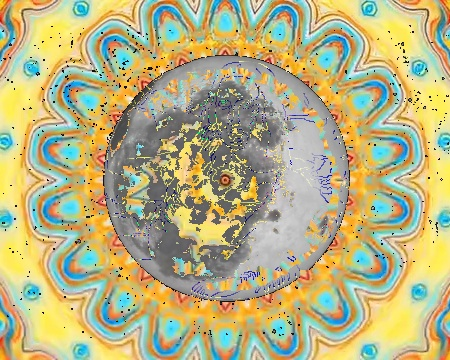
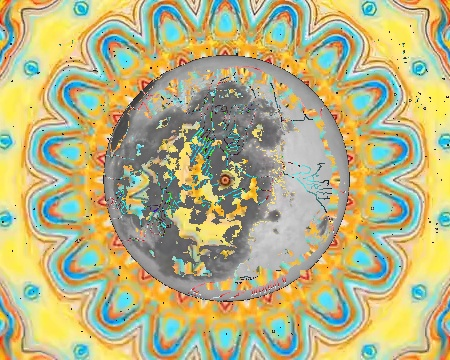
bug fixed

diff --git a/multiply images refactored.py b/multiply images refactored.py
@@ -29,26 +29,30 @@ def func_transformingImage(image, x, y, dest_y, dest_x):
 
     return TranslatedImage
 
+
 def func_isBlack(pixel, tellorance):
-    #@Shery: it should be <= tellorance because in grayscale 0 means black, 255 means white
+    # @Shery: it should be <= tellorance because in grayscale 0 means black, 255 means white
     if ((pixel[0] + pixel[1] + pixel[2])/3) >= tellorance:
         return True
 
     else:
         return False
 
+
 def func_preprocessingImage(image):
     height, width, layer = image.shape
 
     for i in range(height):
         for j in range(width):
-            #@shery: use if func_isBlack(image[x,y], 9): instead of following if condition
+            # @shery: use if func_isBlack(image[x,y], 9): instead of following if condition
+            image = func_isBlack(image[i, j], 9)  # @ehsan: is it ok?
+            '''
             if (((image[i, j][0] + image[i, j][1] + image[i, j][2])/3) < 10):
                 image[i, j][0] = 0
                 image[i, j][1] = 0
                 image[i, j][2] = 0
-
-    #@shery: added cm- removing watermarks and white written info at the bottom of image
+            '''
+    # removing watermarks and white written info at the bottom of image
     for i in range(270, 360):
         for j in range(300, 450):
             image[i, j][0] = 0
@@ -56,8 +60,6 @@ def func_preprocessingImage(image):
             image[i, j][2] = 0
 
     return image
-
-
 
 
 def func_mergingImages(image1, image2):

diff --git a/imgToVid.py b/imgToVid.py
@@ -6,7 +6,7 @@ import glob
 import moviepy.editor as mpe
 
 print("starting sth great..")
-#salaaaaaaaaaaaaaaam salam sharare aghaei dooset midareeee!###
+
 ####################### Functionss: ############################
 
 
